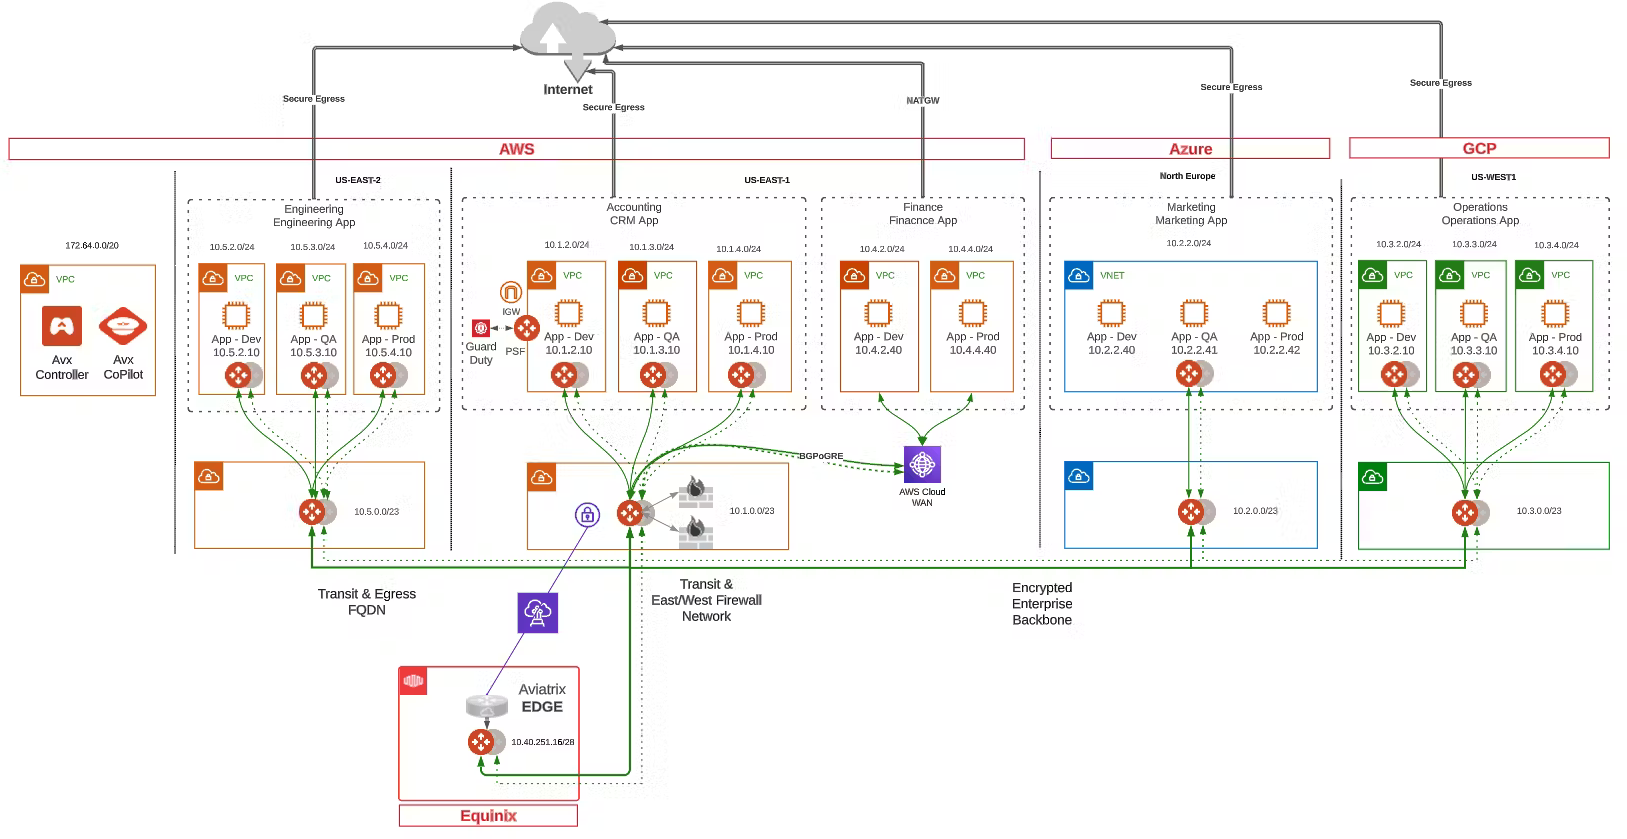
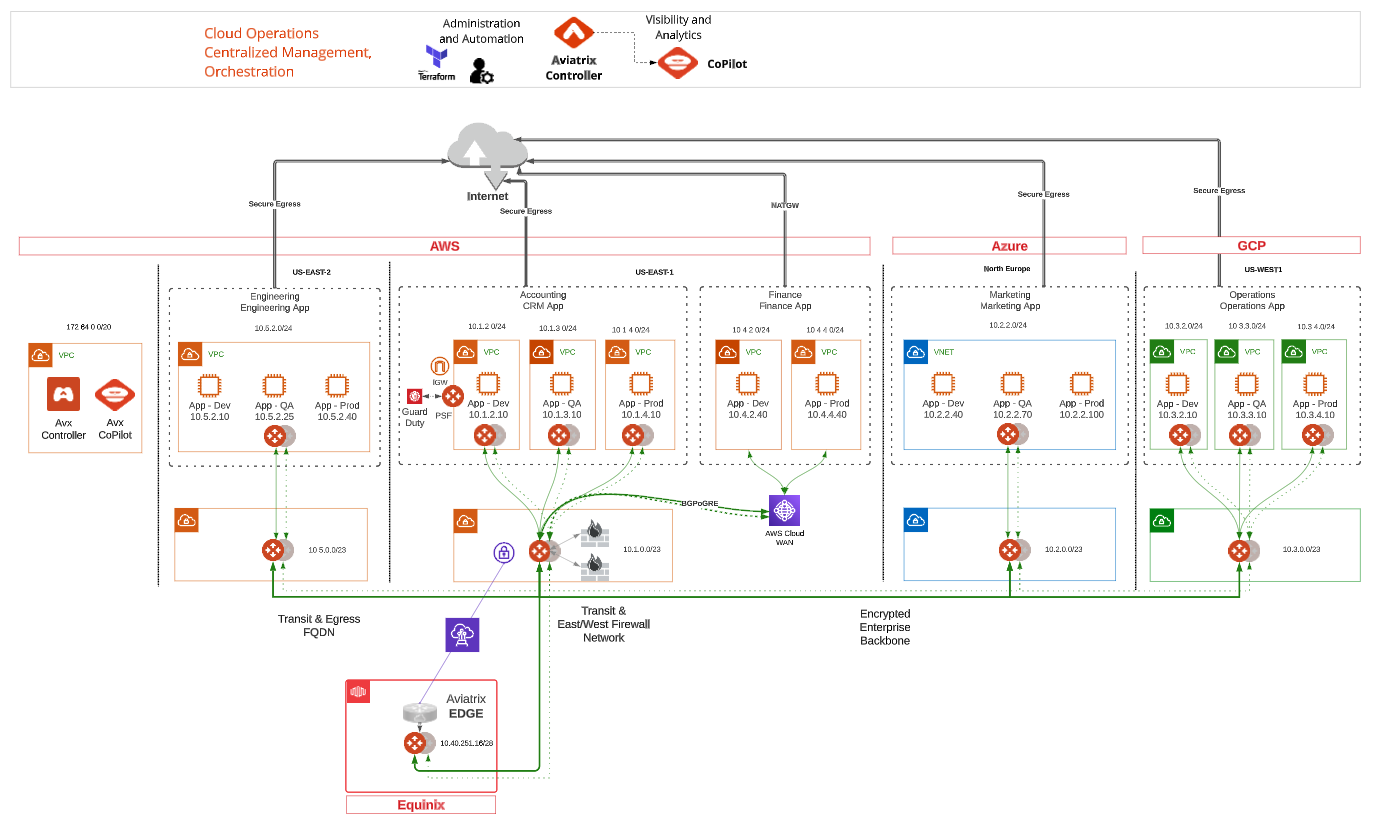
modified topology for sg orchestration

Changed region(s): [[0.0, 0.0, 0.9949, 0.9964], [0.8706, 0.0906, 0.9017, 0.1208], [0.7462, 0.0906, 0.7773, 0.1208]]

diff --git a/README.md b/README.md
@@ -27,6 +27,10 @@ module "reinvent" {
   aws_account          = "onboarded aws account name"
   azure_account        = "onboarded azure account name"
   gcp_account          = "onboarded gcp account name"
+  providers = {
+    aws           = aws
+    aws.us-east-2 = aws.us-east-2
+  }
 }
 
 provider "aviatrix" {
@@ -37,6 +41,11 @@ provider "aviatrix" {
 
 provider "aws" {
   region  = "us-east-1"
+}
+
+provider "aws" {
+  alias   = "us-east-2"
+  region  = "us-east-2"
 }
 
 terraform {
